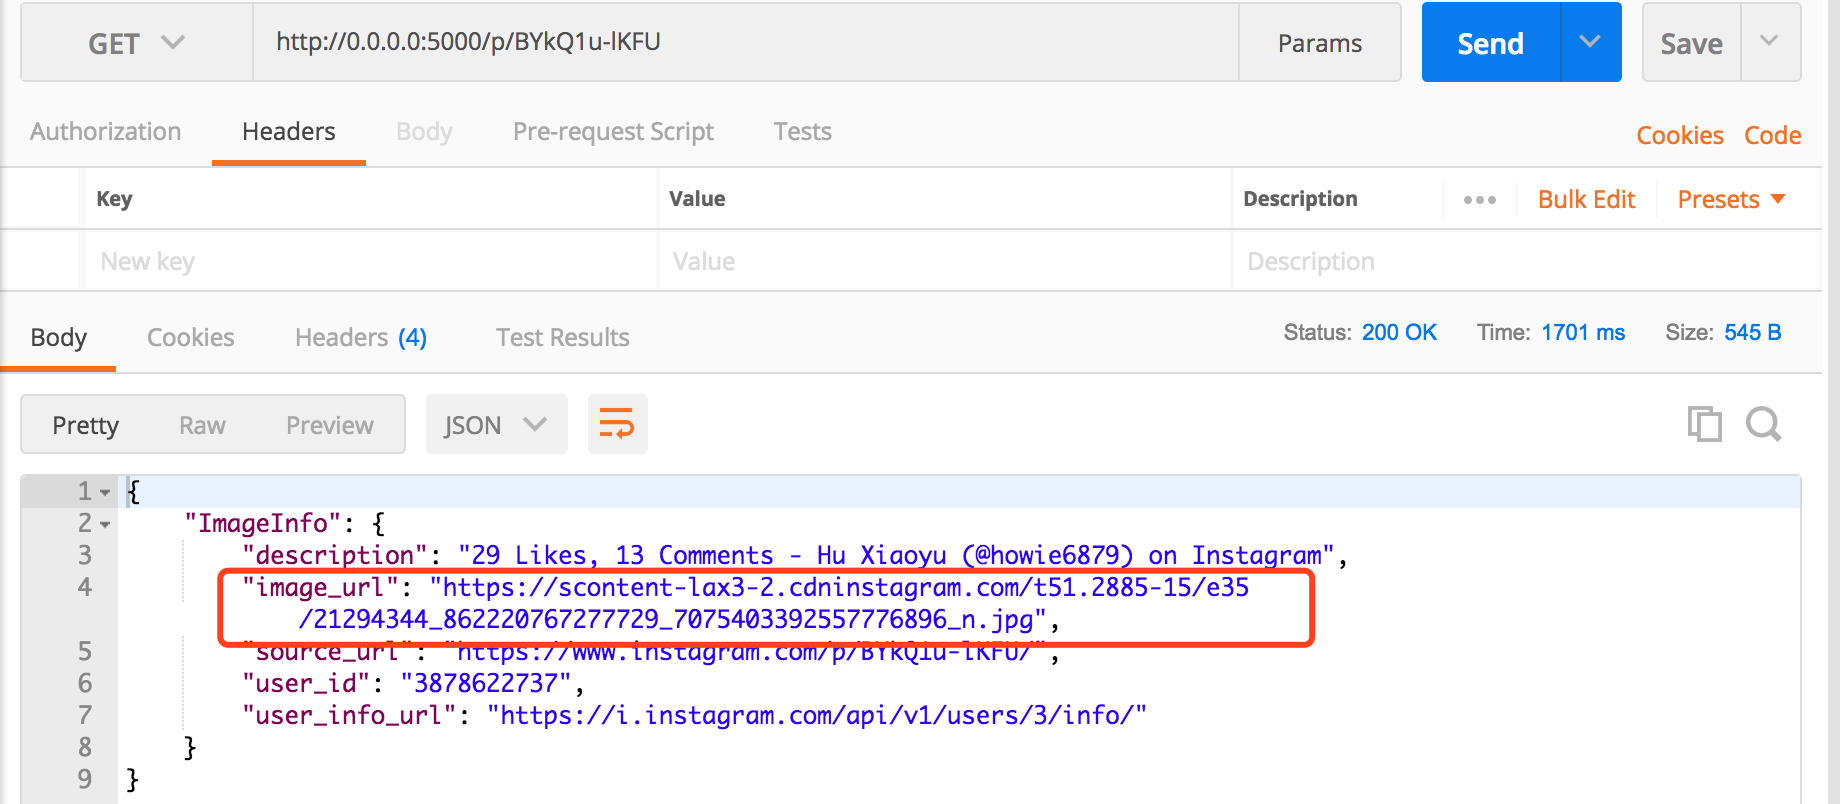
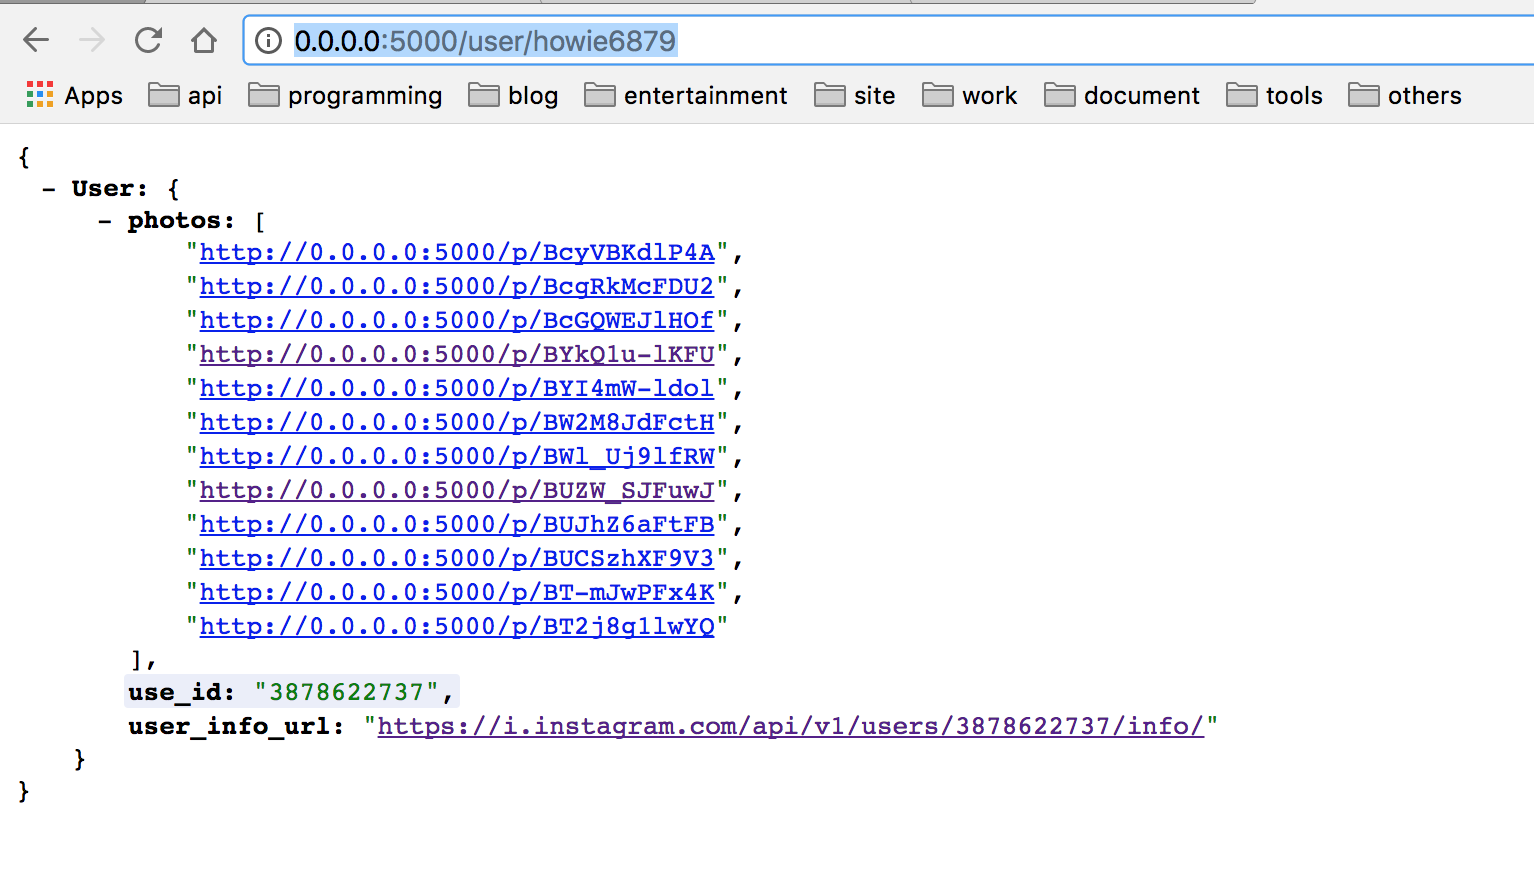
Updated Item.route

diff --git a/items/user.py b/items/user.py
@@ -16,11 +16,15 @@ class User(Item):
         return ''.join(user_info_url) if isinstance(user_info_url, list) else user_info_url
 
     def clean_user_info_url(self, user_info_url):
-        return "https://i.instagram.com/api/v1/users/{}/info/".format(user_info_url[0])
+        if isinstance(user_info_url, list):
+            user_info_url = user_info_url[0]
+        return "https://i.instagram.com/api/v1/users/{}/info/".format(user_info_url)
 
     class Meta:
         source = None
-        route = '/(?!p/)'
+        route = {
+            '/user/:path': '/:path'
+        }
 
         web = {
             "with_ajax": True

diff --git a/items/image_info.py b/items/image_info.py
@@ -4,6 +4,7 @@ from toapi import Item, Css
 
 class ImageInfo(Item):
     __base_url__ = "https://www.instagram.com"
+
     image_url = Css('head > meta[property="og:image"]', attr='content')
     description = Css('head > meta[property="og:description"]', attr='content')
     source_url = Css('head > meta[property="og:url"]', attr='content')
@@ -15,7 +16,9 @@ class ImageInfo(Item):
 
     class Meta:
         source = None
-        route = '/p/.*?'
+        route = {
+            '/p/:path': '/p/:path'
+        }
 
         web = {
             "with_ajax": False

diff --git a/app.py b/app.py
@@ -10,4 +10,5 @@ api = Api(settings=MySettings)
 api.register(ImageInfo)
 api.register(User)
 
-api.serve(ip='0.0.0.0', port='5000')
+if __name__ == '__main__':
+    api.serve()

diff --git a/README.md b/README.md
@@ -26,9 +26,11 @@ Once the server is started, you can get JSON data from toapi-instagram, now toap
 - user_info
 - media_info
 
-Visit `http://0.0.0.0:5000/items/`
+Visit `http://0.0.0.0:5000/user/howie6879`
 
 ![RUN](./docs/01.png)
+
+Visit `http://0.0.0.0:5000/p/BYkQ1u-lKFU`
 
 ![RUN](./docs/02.png)
 
